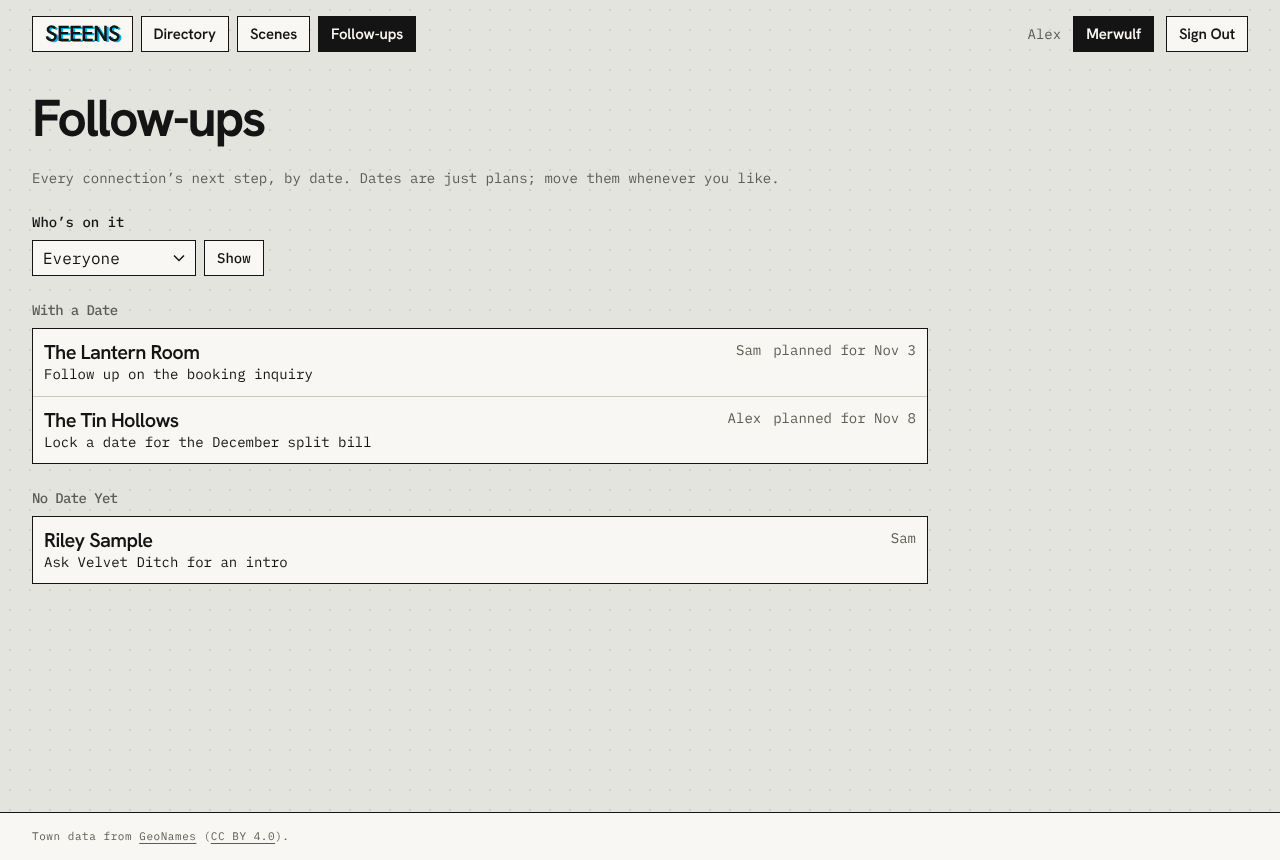
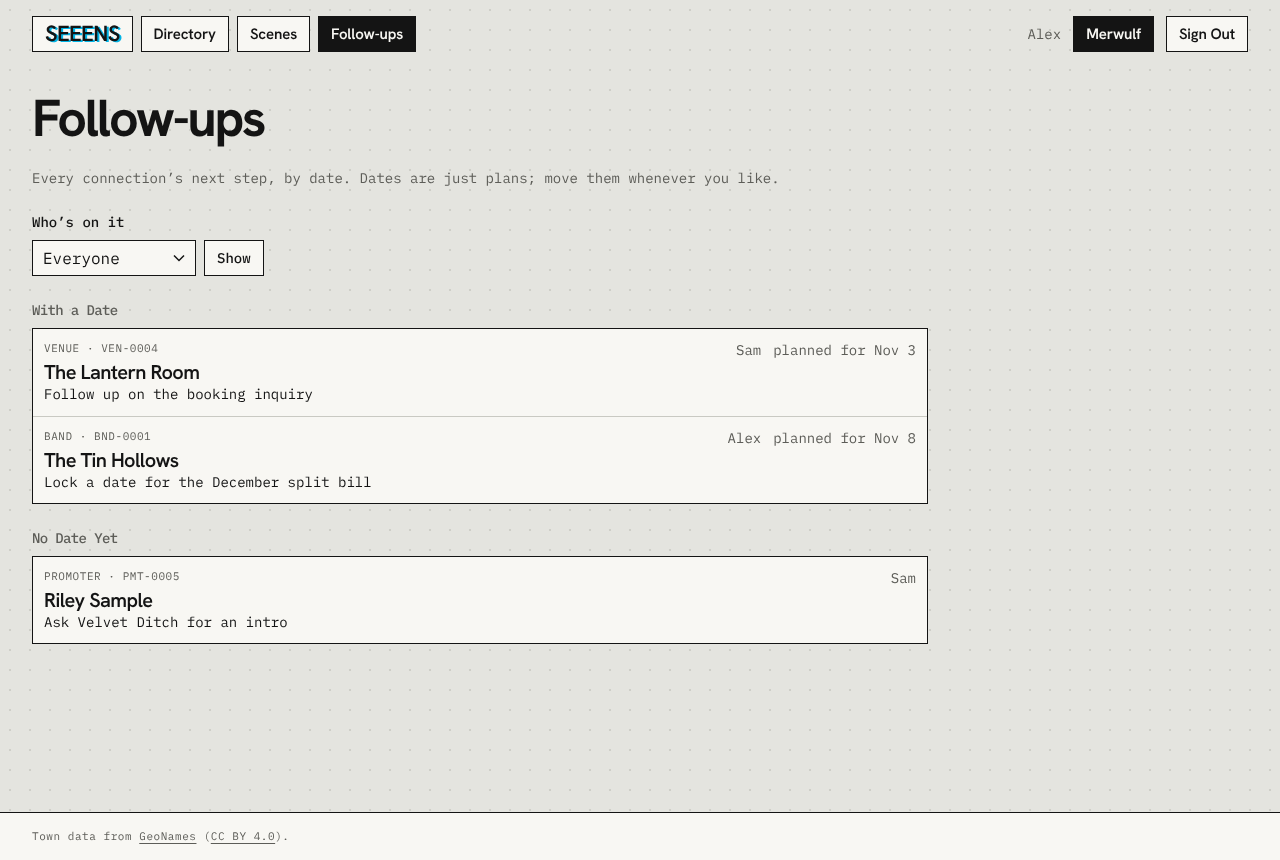
Catalog numbers on Follow-ups, pickers, and lineup matches (#113)
Follow-ups rows show the type and number above the name. The connection
picker shows the number in each hint and finds a connection by it. The
lineup paste names the number in its "Link to" choice, so two people
with the same name can be told apart.

Claude-Session: https://claude.ai/code/session_01SMP6NnyPkRALtU7G1T7uNS

Changed region(s): [[0.0312, 0.393, 0.2812, 0.7256], [0.5625, 0.4837, 0.7188, 0.514], [0.6875, 0.6651, 0.7188, 0.6953]]

diff --git a/src/app/(app)/follow-ups/page.tsx b/src/app/(app)/follow-ups/page.tsx
@@ -6,6 +6,8 @@ import { createClient } from "@/lib/supabase/server";
 import { fetchAll } from "@/lib/supabase/paginate";
 import { formatDay, todayISO } from "@/lib/outreach/labels";
 import { NoWorkspace } from "@/components/no-workspace";
+import { catalogNo } from "@/lib/connections/card";
+import { formatType } from "@/lib/connections/labels";
 
 export const metadata: Metadata = { title: "Follow-ups · Seeens" };
 
@@ -32,7 +34,7 @@ async function FollowUps({ searchParams }: { searchParams: PageProps<"/follow-up
       supabase
         .from("next_actions")
         .select(
-          "id, description, due_on, assignee_id, assignee:workspace_members!next_actions_workspace_id_assignee_id_fkey ( display_name ), connection:connections!next_actions_workspace_id_connection_id_fkey ( id, name, archived_at )",
+          "id, description, due_on, assignee_id, assignee:workspace_members!next_actions_workspace_id_assignee_id_fkey ( display_name ), connection:connections!next_actions_workspace_id_connection_id_fkey ( id, name, kind, group_type, person_roles, catalog_no, archived_at )",
         )
         .eq("workspace_id", membership.workspaceId)
         .eq("status", "open")
@@ -115,7 +117,9 @@ type Action = {
   description: string;
   due_on: string | null;
   assignee: { display_name: string } | null;
-  connection: { id: string; name: string } | null;
+  connection:
+    | (Parameters<typeof catalogNo>[0] & { id: string; name: string })
+    | null;
 };
 
 function ActionList({ title, actions, today }: { title: string; actions: Action[]; today: string }) {
@@ -133,7 +137,13 @@ function ActionList({ title, actions, today }: { title: string; actions: Action[
               className="flex flex-col gap-1 px-3 py-3 row-link sm:flex-row sm:items-start sm:justify-between sm:gap-4"
             >
               <span className="flex flex-col">
-                <span className="font-display text-xl leading-6 font-semibold tracking-[-0.03em] break-words">{a.connection!.name}</span>
+                {/* Name first for screen readers; the caption sits above it visually, like the directory. */}
+                <span className="flex flex-col-reverse gap-1">
+                  <span className="font-display text-xl leading-6 font-semibold tracking-[-0.03em] break-words">{a.connection!.name}</span>
+                  <span className="caption">
+                    {formatType(a.connection!)} · <span className="whitespace-nowrap">{catalogNo(a.connection!)}</span>
+                  </span>
+                </span>
                 <span>{a.description}</span>
               </span>
               <span className="flex flex-wrap gap-x-3 text-sm text-muted sm:justify-end">

diff --git a/src/components/combobox.tsx b/src/components/combobox.tsx
@@ -3,7 +3,8 @@
 import { useEffect, useId, useMemo, useRef, useState } from "react";
 import { noAutofill } from "@/lib/no-autofill";
 
-export type ComboOption = { value: string; label: string; hint?: string; depth?: number };
+// search: extra text the box also matches, like a catalog number.
+export type ComboOption = { value: string; label: string; hint?: string; depth?: number; search?: string };
 
 type Item = { kind: "option"; option: ComboOption } | { kind: "create"; label: string };
 
@@ -76,10 +77,11 @@ export function Combobox({
     const q = query.trim().toLowerCase();
     const singlePicked = !multiple && selected[0] && byValue.get(selected[0])?.label === query;
     const list: Item[] = options
-      .filter((o) => !q || singlePicked || o.label.toLowerCase().includes(q))
+      .filter((o) => !q || singlePicked || o.label.toLowerCase().includes(q) || Boolean(o.search?.toLowerCase().includes(q)))
       .map((option) => ({ kind: "option", option }));
     const exists =
-      options.some((o) => o.label.toLowerCase() === q) || created.some((c) => c.toLowerCase() === q);
+      options.some((o) => o.label.toLowerCase() === q || o.search?.toLowerCase() === q) ||
+      created.some((c) => c.toLowerCase() === q);
     if (create && q && !exists) list.push({ kind: "create", label: query.trim() });
     return list;
   }, [options, query, created, create, multiple, selected, byValue]);

diff --git a/src/components/links-panel.tsx b/src/components/links-panel.tsx
@@ -19,6 +19,7 @@ import {
   formatType,
   type ConnectionKind,
   type GroupType,
+  type PersonRole,
 } from "@/lib/connections/labels";
 
 export type LinkRow = {
@@ -39,6 +40,9 @@ export type Candidate = {
   name: string;
   kind: ConnectionKind;
   group_type: GroupType | null;
+  person_roles: PersonRole[];
+  /** "BND-0042" */
+  catalog: string;
 };
 
 export function LinksPanel({
@@ -117,7 +121,7 @@ export function LinksPanel({
       {canPaste && adding === "paste" ? (
         <PasteLineup
           bandId={subjectId}
-          people={candidates.filter((c) => c.kind === "person").map(({ id, name }) => ({ id, name }))}
+          people={candidates.filter((c) => c.kind === "person").map(({ id, name, catalog }) => ({ id, name, catalog }))}
           memberIds={memberIds ?? []}
           onDone={() => setAdding(null)}
         />
@@ -276,7 +280,10 @@ function AddLinkForm({
         options={candidates.map((c) => ({
           value: c.id,
           label: c.name,
-          hint: formatType({ ...c, person_roles: [] }),
+          // The number tells apart two people with the same name, and you can
+          // type it to find someone.
+          hint: `${formatType(c)} · ${c.catalog}`,
+          search: c.catalog,
         }))}
         create={{ verb: "Add New" }}
         onChange={(values, created) => {

diff --git a/src/components/paste-lineup.tsx b/src/components/paste-lineup.tsx
@@ -7,7 +7,7 @@ import { DetachedForm } from "@/components/detached-form";
 import { addBandMembers, type AddMembersResult } from "@/lib/affiliations/actions";
 import { MAX_NAME_LENGTH, MAX_ROLE_LENGTH, MAX_ROWS, parseLineup } from "@/lib/affiliations/lineup";
 
-type Person = { id: string; name: string };
+type Person = { id: string; name: string; catalog: string };
 
 type Row = {
   key: number;
@@ -249,10 +249,9 @@ function PreviewRow({
               onChange={(e) => onChange({ personId: e.target.value })}
               className="field"
             >
-              {r.matches.map((m, i) => (
+              {r.matches.map((m) => (
                 <option key={m.id} value={m.id}>
-                  Link to {m.name}
-                  {r.matches.length > 1 ? ` (${i + 1} of ${r.matches.length})` : ""}
+                  Link to {m.name} ({m.catalog})
                 </option>
               ))}
               <option value="">Add as a New Person</option>

diff --git a/src/lib/connections/queries.ts b/src/lib/connections/queries.ts
@@ -123,7 +123,14 @@ export async function getConnection(id: string) {
     })),
     candidates: network.connections
       .filter((c) => c.id !== id && !c.archived_at)
-      .map(({ id, name, kind, group_type }) => ({ id, name, kind, group_type })),
+      .map((c) => ({
+        id: c.id,
+        name: c.name,
+        kind: c.kind,
+        group_type: c.group_type,
+        person_roles: c.person_roles,
+        catalog: catalogNo(c),
+      })),
     labelMates: network.labelMatesOf(id).map((m) => {
       const mate = network.connections.find((n) => n.id === m.id);
       return { ...m, catalog: mate ? catalogNo(mate) : null };

diff --git a/docs/design-system/rules.md b/docs/design-system/rules.md
@@ -39,7 +39,7 @@ Seeens is not a sales tool. Bands work on their own time, and urgency comes and 
 - Card grids fill the row with as many 280px-minimum columns as fit (`.card-grid`).
 - **Directory bar:** every directory control sits in one bar pinned to the top of the window (`.directory-bar`). From 1280px it's one row: views, then the search field (up to 320px, icon inside on the left, an ENTER keycap hint inside on the right) and Filters, then List/Cards and Add Connection on the right; the filter fields open under the middle. Below 1280, views and Add sit on top with search, Filters, and List/Cards under them. Filters is paper until the fields are open or a filter is set, then ink, so ink means something is in play. At rest the bar sits on the dot grid; once it pins it gets solid ground and a hairline underneath (`data-pinned`, set by `PinWatch`). Phones stack views, Add, and the search row, and pin only the search row and any open filters; there Filters shows its icon and count, and List/Cards becomes one button showing the other layout. Field labels are visually hidden and the placeholder names the field.
 - **Paging:** long lists load 48 at a time (rows of 2, 3, 4, or 6 cards fill evenly). A paper **Show More** sits under the results with "48 of 122 loaded" beside it (the count above the list says how many match, never how many are loaded); it appends in place, moves focus to the first new item, and announces how many loaded. Group headings count the whole group, not just what has loaded.
-- **Catalog numbers:** every connection shows its catalog number (`BND-0042`) in caption type wherever it appears: list rows (caption line, after the type), cards (top-right of the meta box), the connection page (after type and town), link rows, and label mates. It is read aloud like any text. The prefix comes from the current type or first role (`catalogNo()` in `lib/connections/card.ts`); only the number is stored.
+- **Catalog numbers:** every connection shows its catalog number (`BND-0042`) in caption type wherever it appears: list rows (caption line, after the type), cards (top-right of the meta box), the connection page (after type and town), link rows, label mates, Follow-ups rows (caption line, after the type), connection pickers (in the hint, and typing it finds the connection), and lineup matches ("Link to Jo Example (MUS-0002)"). It is read aloud like any text. The prefix comes from the current type or first role (`catalogNo()` in `lib/connections/card.ts`); only the number is stored.
 - **Icon-only buttons** are locked to 36 x 36, border included (`.button-icon`, or `.button-icon-phone` for buttons that drop their label below 640px). They never stretch or shrink in a row. A button showing a count next to its icon is no longer icon-only and sizes to its content.
 - **Segmented Control tones:** Primary (ink fill on the pick) is for the main choice on a page, like the directory views. Secondary (`.segmented-secondary`: paper stays paper, the pick gets ink text and a 2px ink underline, the rest go muted) is for settings beside it, like List/Cards.
 - Use a consistent spacing scale.
